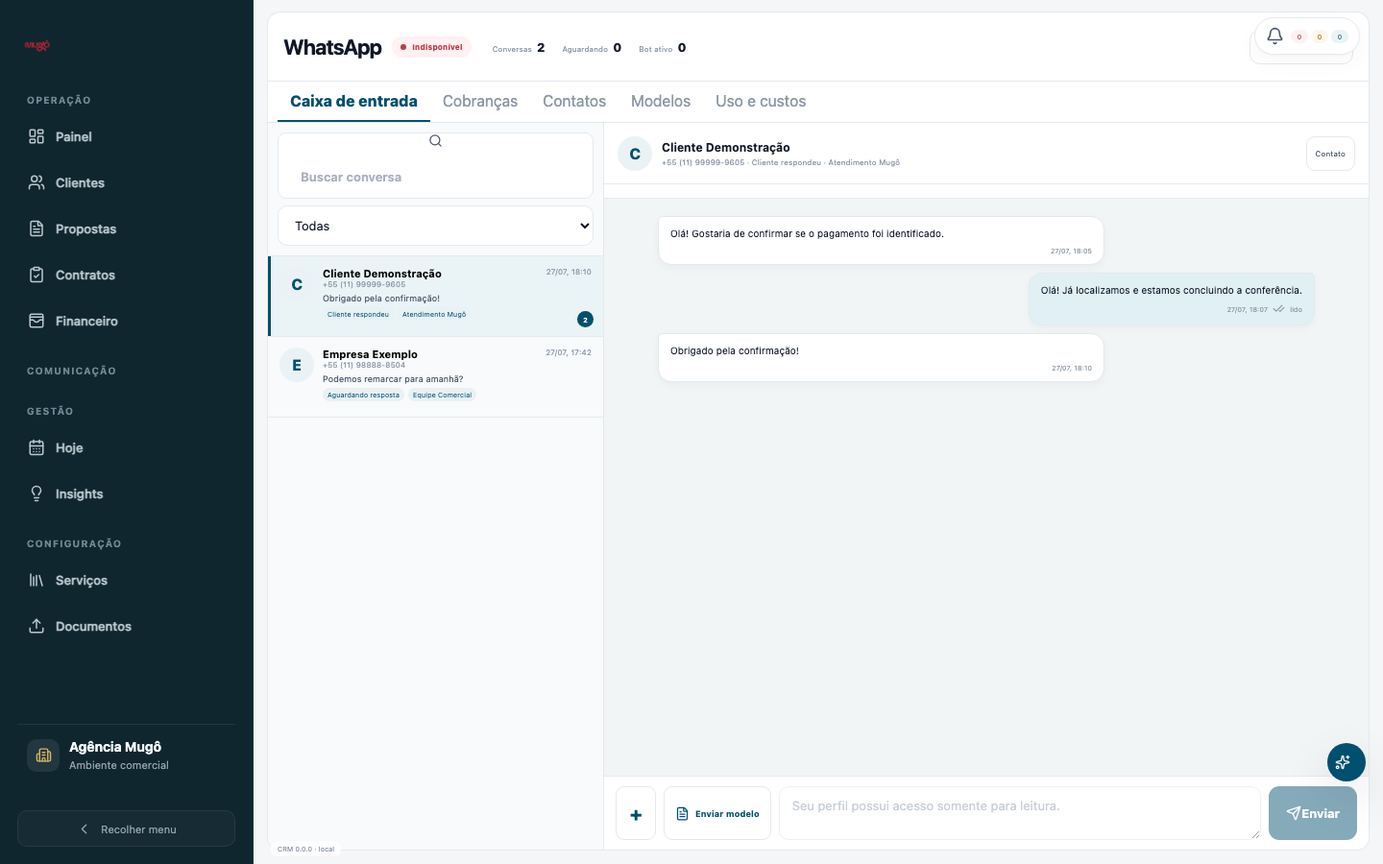
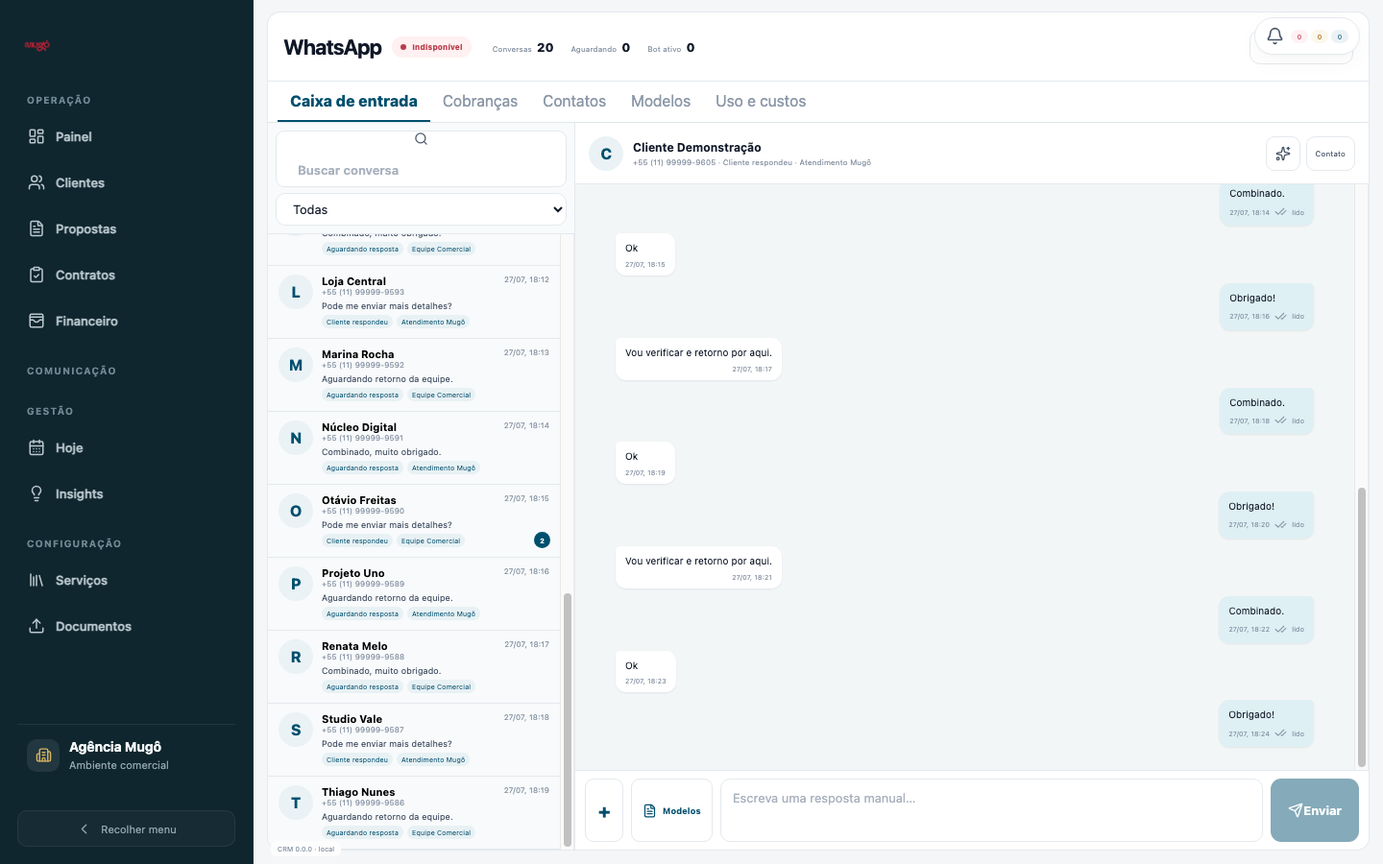
fix: estabiliza layout do inbox WhatsApp

diff --git a/src/components/WhatsAppPage.jsx b/src/components/WhatsAppPage.jsx
@@ -1,5 +1,5 @@
 import { useCallback, useEffect, useMemo, useRef, useState } from 'react'
-import { AlertCircle, CheckCheck, CircleDollarSign, Copy, ExternalLink, FileText, Link2, MessageCircle, MoreHorizontal, RefreshCw, Search, Send, UsersRound } from 'lucide-react'
+import { AlertCircle, CheckCheck, CircleDollarSign, Copy, ExternalLink, FileText, Link2, MessageCircle, MoreHorizontal, RefreshCw, Search, Send, Sparkles, UsersRound } from 'lucide-react'
 import { FeedbackMessage } from './FeedbackMessage'
 import { PageSkeleton } from './PageSkeleton'
 import { normalizeBrazilianPhone } from '../lib/whatsapp'
@@ -39,7 +39,7 @@ const mergeMessages=(current,incoming)=>{
   return [...rows.values()].sort((a,b)=>new Date(a.createdAt||0)-new Date(b.createdAt||0))
 }
 
-export function WhatsAppPage({ clients = [], contracts = [], installments = [], proposals = [], onNavigate = () => {}, canWrite = false, isAdmin = false }) {
+export function WhatsAppPage({ clients = [], contracts = [], installments = [], proposals = [], onNavigate = () => {}, onAskAI = () => {}, canWrite = false, isAdmin = false }) {
   const visualMock=import.meta.env.DEV&&new URLSearchParams(window.location.search).has('whatsapp_mock')
   const visualWindowClosed=visualMock&&new URLSearchParams(window.location.search).get('window')==='closed'
   const visualConversations=useMemo(()=>visualMock?whatsappVisualConversations.map((item,index)=>index===0?{...item,serviceWindowOpen:!visualWindowClosed}:item):[],[visualMock,visualWindowClosed])
@@ -60,10 +60,12 @@ export function WhatsAppPage({ clients = [], contracts = [], installments = [], 
   const optimisticIdRef=useRef(0)
   const historyEndRef=useRef(null)
   const historyContainerRef=useRef(null)
+  const composerTextareaRef=useRef(null)
   const shouldAutoScrollRef=useRef(true)
   const conversationsRef=useRef([])
   const [connection,setConnection]=useState('initializing')
   const templateSendEnabled=import.meta.env.VITE_WHATSAPP_TEMPLATE_SEND_ENABLED==='true'
+  const canCompose=canWrite||visualMock
 
   const refresh = useCallback(async (quiet=false, force=false) => {
     if(visualMock){setConversations(visualConversations);setSummary({conversations_open:visualConversations.length});setLoading(false);return}
@@ -162,12 +164,13 @@ export function WhatsAppPage({ clients = [], contracts = [], installments = [], 
       const result=await sendManualMessage(selected,text,idempotencyKey)
       const providerMessageId=result?.provider_message_id||result?.message_id||result?.messages?.[0]?.id
       setMessages(current=>current.map(item=>item.id===optimistic.id?{...item,id:providerMessageId||item.id,provider_message_id:providerMessageId||'',status:'sent'}:item))
-      setDraft('');setError('');await loadHistory(selected,true)
+      setDraft('');if(composerTextareaRef.current)composerTextareaRef.current.style.height='44px';setError('');await loadHistory(selected,true)
     }catch(cause){
       setMessages(current=>current.map(item=>item.id===optimistic.id?{...item,status:'failed',error_message:cause.message}:item))
       handleOperationError(cause)
     }finally{sendingRef.current=false;setSending(false)}
   }
+  function handleDraftChange(event){setDraft(event.target.value);event.target.style.height='44px';event.target.style.height=`${Math.min(event.target.scrollHeight,120)}px`}
   function handleComposerKeyDown(event){if(event.key==='Enter'&&!event.shiftKey){event.preventDefault();send(event)}}
   const collections=installments.filter(item=>['pending','overdue'].includes(item.status)).sort((a,b)=>String(a.due_date).localeCompare(String(b.due_date)))
   async function openCollection(item){
@@ -240,11 +243,11 @@ export function WhatsAppPage({ clients = [], contracts = [], installments = [], 
         <div className="conversation-tools"><label><Search size={15}/><input value={query} onChange={e=>setQuery(e.target.value)} placeholder="Buscar conversa"/></label><select value={filter} onChange={e=>setFilter(e.target.value)}><option value="all">Todas</option><option value="collection">Cobranças</option><option value="waiting_customer">Aguardando cliente</option><option value="customer_replied">Cliente respondeu</option><option value="waiting_finance">Aguardando financeiro</option><option value="negotiating">Em negociação</option><option value="paid">Pagas</option><option value="failed">Falha de envio</option></select></div>
         <div className="conversation-scroll">{filtered.length?filtered.map(item=>{const valid=hasValidConversationIdentifier(item);return <button key={item.id||item.waId} disabled={!valid} className={`conversation-item status-${item.status}${selectedId===item.waId?' active':''}`} onClick={()=>valid&&setSelectedId(item.waId)}><span className="contact-avatar">{item.name.slice(0,1).toUpperCase()}</span><span className="conversation-copy"><span><strong>{item.name}</strong><time>{fmtTime(item.updatedAt)}</time></span><small>{valid?formatPhoneForDisplay(getConversationIdentifier(item)):'Identificador da conversa ausente'}</small><p>{item.preview||'Sem prévia de mensagem'}</p><span className="conversation-badges"><i>{modeLabel(item)}</i>{item.owner&&<i>{item.owner}</i>}{item.collection&&<i className="collection">Cobrança</i>}</span></span>{item.unread>0&&<b>{item.unread}</b>}</button>}):<div className="whatsapp-empty">Nenhuma conversa encontrada.</div>}</div>
       </aside>
-      <main className="chat-panel">{selected?<><header><div className="chat-contact"><button className="mobile-back" onClick={()=>setSelectedId('')}>Voltar</button><span className="contact-avatar">{selected.name.slice(0,1).toUpperCase()}</span><div><strong>{selected.name}</strong><small>{formatPhoneForDisplay(selectedIdentifier)} · {modeLabel(selected)}{selected.owner?` · ${selected.owner}`:''}</small></div></div><div className="chat-actions"><button className="context-toggle" onClick={()=>setContextOpen(true)}>Contato</button>{canWrite&&<div className="chat-action-menu"><button aria-label="Mais ações" aria-expanded={actionsOpen} onClick={()=>setActionsOpen(current=>!current)}><MoreHorizontal size={17}/></button>{actionsOpen&&<div><button disabled={actionRef.current} onClick={()=>mutate(()=>assignConversation(selected,''),'Conversa assumida.')}>Assumir</button><button disabled={actionRef.current} onClick={()=>mutate(()=>pauseAutomation(selected),'Automação pausada.')}>Pausar bot</button><button disabled={actionRef.current} onClick={()=>mutate(()=>resumeAutomation(selected),'Automação retomada.')}>Retomar bot</button><button disabled={actionRef.current} onClick={()=>mutate(()=>closeConversation(selected),'Conversa encerrada.')}>Encerrar</button><button disabled={actionRef.current} onClick={()=>setLinkModal(true)}><Link2 size={13}/>{client?'Alterar vínculo':'Vincular cliente'}</button>{selectedLink&&<button disabled={actionRef.current} onClick={unlinkClient}>Desvincular</button>}<button onClick={()=>navigator.clipboard.writeText(`+${selectedIdentifier}`)}><Copy size={13}/>Copiar número</button><a className="whatsapp-action-link" href={`https://wa.me/${selectedIdentifier}`} target="_blank" rel="noreferrer"><ExternalLink size={13}/>Abrir WhatsApp</a></div>}</div>}</div></header>
+      <main className="chat-panel">{selected?<><header><div className="chat-contact"><button className="mobile-back" onClick={()=>setSelectedId('')}>Voltar</button><span className="contact-avatar">{selected.name.slice(0,1).toUpperCase()}</span><div><strong>{selected.name}</strong><small>{formatPhoneForDisplay(selectedIdentifier)} · {modeLabel(selected)}{selected.owner?` · ${selected.owner}`:''}</small></div></div><div className="chat-actions"><button onClick={onAskAI} aria-label="Pergunte à Mugô" title="Pergunte à Mugô"><Sparkles size={16}/></button><button className="context-toggle" onClick={()=>setContextOpen(true)}>Contato</button>{canWrite&&<div className="chat-action-menu"><button aria-label="Mais ações" aria-expanded={actionsOpen} onClick={()=>setActionsOpen(current=>!current)}><MoreHorizontal size={17}/></button>{actionsOpen&&<div><button disabled={actionRef.current} onClick={()=>mutate(()=>assignConversation(selected,''),'Conversa assumida.')}>Assumir</button><button disabled={actionRef.current} onClick={()=>mutate(()=>pauseAutomation(selected),'Automação pausada.')}>Pausar bot</button><button disabled={actionRef.current} onClick={()=>mutate(()=>resumeAutomation(selected),'Automação retomada.')}>Retomar bot</button><button disabled={actionRef.current} onClick={()=>mutate(()=>closeConversation(selected),'Conversa encerrada.')}>Encerrar</button><button disabled={actionRef.current} onClick={()=>setLinkModal(true)}><Link2 size={13}/>{client?'Alterar vínculo':'Vincular cliente'}</button>{selectedLink&&<button disabled={actionRef.current} onClick={unlinkClient}>Desvincular</button>}<button onClick={()=>navigator.clipboard.writeText(`+${selectedIdentifier}`)}><Copy size={13}/>Copiar número</button><a className="whatsapp-action-link" href={`https://wa.me/${selectedIdentifier}`} target="_blank" rel="noreferrer"><ExternalLink size={13}/>Abrir WhatsApp</a></div>}</div>}</div></header>
         <div className="chat-management">{isAdmin&&users.length>0&&<><label>Responsável<select value={selected.owner||''} onChange={e=>mutate(()=>assignConversation(selected,e.target.value))}><option value="">Sem responsável</option>{users.map(user=><option key={user.id||user.email} value={user.name||user.email}>{user.name||user.email}</option>)}</select></label>{meta.statuses?.length>0&&<small>Status disponíveis: {meta.statuses.join(', ')}</small>}</>}</div>
         <div className="message-history" ref={historyContainerRef} onScroll={event=>{const element=event.currentTarget;shouldAutoScrollRef.current=element.scrollHeight-element.scrollTop-element.clientHeight<120}}>{messagesLoading&&!messages.length?<div className="whatsapp-empty">Carregando histórico…</div>:messages.length?messages.map(message=><article key={message.provider_message_id||message.idempotencyKey||message.id} className={`${message.direction==='out'?'out':'in'} status-${message.status||'unknown'}`}><p>{message.text||`Mensagem ${message.type||'sem conteúdo textual'}`}</p><footer>{message.template&&<span>Modelo: {message.template_display||message.template_name||'WhatsApp'}</span>}{message.collection&&<span>Cobrança</span>}<time>{fmtTime(message.createdAt)}</time>{message.direction==='out'&&<><CheckCheck size={13} aria-label={message.status||'enviada'}/><em>{message.status==='sending'?'enviando':message.status==='sent'||message.status==='accepted'?'enviado':message.status==='delivered'?'entregue':message.status==='read'?'lido':message.status==='unknown'?'resultado desconhecido':message.status==='failed'?'falhou':message.status}</em></>}</footer>{message.error_message&&<small>{message.error_message}</small>}</article>):<div className="whatsapp-empty whatsapp-chat-empty"><MessageCircle/><strong>Nenhuma mensagem confirmada pela API.</strong><span>O MugoZap respondeu com zero mensagens para esta conversa.</span></div>}<span ref={historyEndRef}/></div>
         {selected.serviceWindowOpen===false&&<FeedbackMessage type="warning">A janela de atendimento está encerrada. Use um modelo aprovado para retomar a conversa.</FeedbackMessage>}
-        <form className={`message-composer${selected.serviceWindowOpen===false?' window-closed':''}`} onSubmit={send}><button type="button" className="composer-attachment" aria-label="Anexar arquivo" title="Anexos ainda não disponíveis">+</button><button type="button" className="composer-template" onClick={()=>setTemplateDrawerOpen(true)} aria-label="Enviar modelo aprovado"><FileText size={15}/><span>Enviar modelo</span></button><textarea value={draft} onChange={e=>setDraft(e.target.value)} onKeyDown={handleComposerKeyDown} placeholder={!canWrite?'Seu perfil possui acesso somente para leitura.':selected.serviceWindowOpen===false?'Use um modelo aprovado para retomar a conversa.':'Escreva uma resposta manual…'} disabled={!canWrite||sending||selected.serviceWindowOpen===false} maxLength={4000} aria-label="Mensagem"/><button className="button button-primary" aria-label="Enviar mensagem" disabled={!canWrite||sending||selected.serviceWindowOpen===false||!draft.trim()}><Send size={16}/><span>{sending?'Enviando…':'Enviar'}</span></button></form></>:<div className="whatsapp-empty">Selecione uma conversa para abrir o atendimento.</div>}</main>
+        <form className={`message-composer${selected.serviceWindowOpen===false?' window-closed':''}`} onSubmit={send}><button type="button" className="composer-attachment" aria-label="Anexar arquivo" title="Anexos ainda não disponíveis">+</button><button type="button" className="composer-template" onClick={()=>setTemplateDrawerOpen(true)} aria-label="Abrir modelos aprovados"><FileText size={15}/><span>Modelos</span></button><textarea ref={composerTextareaRef} rows="1" value={draft} onChange={handleDraftChange} onKeyDown={handleComposerKeyDown} placeholder={!canCompose?'Seu perfil possui acesso somente para leitura.':selected.serviceWindowOpen===false?'Use um modelo aprovado para retomar a conversa.':'Escreva uma resposta manual…'} disabled={!canCompose||sending||selected.serviceWindowOpen===false} maxLength={4000} aria-label="Mensagem"/><button className="button button-primary" aria-label="Enviar mensagem" disabled={!canCompose||sending||selected.serviceWindowOpen===false||!draft.trim()}><Send size={16}/><span>{sending?'Enviando…':'Enviar'}</span></button></form></>:<div className="whatsapp-empty">Selecione uma conversa para abrir o atendimento.</div>}</main>
       {contextOpen&&<button className="client-context-backdrop" onClick={()=>setContextOpen(false)} aria-label="Fechar informações do contato"/>}<aside className={`client-context${contextOpen?' open':''}`}>{selected?<><button className="client-context-close" onClick={()=>setContextOpen(false)}>Fechar</button><header><span>Contexto do cliente</span><strong>{client?.trade_name||client?.company_name||selected.name}</strong><small>{client?'Cliente cadastrado':'Contato não vinculado ao CRM'}</small></header>{client?<><dl><div><dt>Contato</dt><dd>{client.contact_name||'Não informado'}</dd></div><div><dt>Status comercial</dt><dd>{client.status||'Não informado'}</dd></div><div><dt>Contratos</dt><dd>{clientContracts.length}</dd></div><div><dt>Propostas</dt><dd>{clientProposals.length}</dd></div><div><dt>Parcelas pendentes</dt><dd>{openInstallments.length}</dd></div><div><dt>Total em atraso</dt><dd>{money(overdue.reduce((sum,item)=>sum+Number(item.amount||0),0))}</dd></div><div><dt>Próximo vencimento</dt><dd>{openInstallments[0]?.due_date||'Nenhum'}</dd></div></dl>{activeAlert&&activeCollectionInstallment&&<section className="collection-context"><h3>Cobrança vinculada</h3><dl><div><dt>Parcela</dt><dd>{activeCollectionInstallment.reference_month}</dd></div><div><dt>Vencimento</dt><dd>{activeCollectionInstallment.due_date}</dd></div><div><dt>Valor pendente</dt><dd>{money(Math.max(Number(activeCollectionInstallment.amount||0)-Number(activeCollectionInstallment.received_amount||0),0))}</dd></div><div><dt>Status</dt><dd>{activeAlert.status}</dd></div><div><dt>Último alerta</dt><dd>{fmtTime(activeAlert.sent_at)}</dd></div></dl><div className="context-actions"><button onClick={()=>navigator.clipboard.writeText(settings.pix_key||'')} disabled={!settings.pix_key}>Copiar PIX</button><button onClick={suggestCollectionDetails}>Enviar detalhes</button><button onClick={async()=>{await updateCollectionStage(activeAlert.id,'negotiating');await refresh(true)}}>Marcar em negociação</button><button onClick={markPaid}>Marcar como pago</button></div></section>}<div className="context-actions"><button onClick={()=>onNavigate('clients')}>Abrir cliente</button>{clientContracts.length>0&&<button onClick={()=>onNavigate('contracts')}>Abrir contrato</button>}<button onClick={()=>onNavigate('finance')}>Abrir financeiro</button></div></>:<div className="context-empty"><AlertCircle size={18}/><p>O telefone não corresponde a um cliente cadastrado.</p><button onClick={()=>onNavigate('clients')}>Criar cliente</button></div>}</>:null}</aside>
     </div>:tab==='collections'?<div className="whatsapp-table-card"><header><div><CircleDollarSign/><div><strong>Cobranças</strong><small>Base financeira oficial: parcelas do CRM. O primeiro contato utiliza exclusivamente o template aprovado.</small></div></div></header>{collections.length?<div className="whatsapp-table">{collections.map(item=>{const rowClient=clients.find(row=>row.id===item.client_id),phone=rowClient?.billing_contact_phone||rowClient?.phone,known=conversations.some(c=>samePhone(c.phone,phone));return <article key={item.id}><div><strong>{rowClient?.company_name||item.clients?.company_name||'Cliente não informado'}</strong><small>{item.due_date} · {item.status}</small></div><strong>{money(item.amount)}</strong><button onClick={()=>openCollection(item)} disabled={!canWrite} title={!canWrite?'Seu perfil possui acesso somente para leitura.':phone?(known?'Abrir a conversa existente':'Localizar ou iniciar conversa'):'Cadastrar número e continuar'}>{phone?(known?'Abrir conversa':'Iniciar conversa'):'Cadastrar número'}</button><button onClick={()=>openCollection(item)} disabled={!canWrite} title={!canWrite?'Seu perfil não pode enviar alertas.':'Revisar e enviar o template aprovado'}>Enviar alerta</button></article>})}</div>:<div className="whatsapp-empty">Nenhuma parcela pendente encontrada.</div>}</div>:tab==='contacts'?<div className="whatsapp-table-card"><header><div><UsersRound/><div><strong>Contatos</strong><small>Clientes do CRM relacionados às conversas pelo telefone normalizado.</small></div></div></header><div className="whatsapp-table">{clients.map(item=>{const conversation=conversations.find(c=>samePhone(c.phone,item.phone)||samePhone(c.phone,item.billing_contact_phone));return <article key={item.id}><div><strong>{item.trade_name||item.company_name}</strong><small>{item.contact_name||'Sem contato'} · {item.phone||item.billing_contact_phone||'Sem telefone'}</small></div><span>{item.status}</span><button disabled={!conversation} onClick={()=>{setSelectedId(conversation.waId);setTab('inbox')}}>Abrir conversa</button><button onClick={()=>onNavigate('clients')}>Abrir cliente</button></article>})}</div></div>:<div className="template-card"><header><strong>mugo_alerta_pagamento_pendente</strong><span>Utilidade · pt_BR</span></header><p>Finalidade: iniciar alerta financeiro. Interação esperada: Consultar cobrança.</p><dl><div><dt>Uso</dt><dd>Alertas financeiros revisados pela equipe</dd></div><div><dt>Variáveis</dt><dd>Primeiro nome seguro do cliente</dd></div><div><dt>Ação</dt><dd>Consultar cobrança</dd></div></dl><FeedbackMessage type="warning">A aprovação e o status oficial do template continuam sendo gerenciados na Meta.</FeedbackMessage></div>}
     {tab==='collections'&&<button className="button secondary whatsapp-batch-trigger" onClick={()=>setBatchOpen(true)}>Envio em lote</button>}

diff --git a/src/components/WhatsAppPage.css b/src/components/WhatsAppPage.css
@@ -28,3 +28,50 @@
 @media(max-width:720px){.whatsapp-page .message-composer{grid-template-columns:auto auto minmax(0,1fr) auto}.message-composer button{min-width:42px;padding-inline:8px}.message-composer .composer-template span,.message-composer .button-primary span{display:none}.whatsapp-assistant-trigger{bottom:calc(86px + env(safe-area-inset-bottom))}.conversation-template-drawer{top:auto;bottom:0;width:100%;height:min(88dvh,760px);padding:14px 12px calc(14px + env(safe-area-inset-bottom));border-radius:18px 18px 0 0}}
 .template-confirm-check input{flex:0 0 16px;width:16px;min-height:16px}
 @media(max-width:720px){.whatsapp-assistant-trigger{bottom:calc(160px + env(safe-area-inset-bottom))}}
+
+/* Contrato de altura do inbox: nenhum ancestral externo pode crescer com o conteúdo. */
+.whatsapp-shell .whatsapp-page{height:100%;min-height:0;display:flex;flex-direction:column;overflow:hidden}
+.whatsapp-shell .whatsapp-compact-header,.whatsapp-shell .whatsapp-tabs{flex:0 0 auto}
+.whatsapp-shell .whatsapp-workspace{flex:1 1 auto;height:auto;min-height:0;grid-template-columns:320px minmax(0,1fr);overflow:hidden}
+.whatsapp-shell .whatsapp-workspace.has-context{grid-template-columns:320px minmax(0,1fr) 300px}
+.whatsapp-shell .conversation-list,.whatsapp-shell .chat-panel,.whatsapp-shell .client-context{min-width:0;min-height:0;overflow:hidden}
+.whatsapp-shell .conversation-list{display:flex;flex-direction:column}
+.whatsapp-shell .conversation-tools{position:relative;flex:0 0 auto;gap:6px;padding:8px}
+.whatsapp-shell .conversation-tools label{min-height:36px;padding-inline:9px}
+.whatsapp-shell .conversation-tools input{min-height:34px;padding-block:7px}
+.whatsapp-shell .conversation-tools select{min-height:34px;padding-block:6px}
+.whatsapp-shell .conversation-scroll{flex:1 1 auto;min-height:0;overflow-x:hidden;overflow-y:auto;overscroll-behavior:contain;scrollbar-gutter:stable}
+.whatsapp-shell .conversation-item{min-height:76px;padding:9px 11px}
+.whatsapp-shell .chat-panel{display:flex;flex-direction:column;background:#f3f6f7}
+.whatsapp-shell .chat-panel>header{flex:0 0 auto;min-height:64px}
+.whatsapp-shell .chat-management{flex:0 0 auto}
+.whatsapp-shell .chat-management:empty{display:none}
+.whatsapp-shell .message-history{flex:1 1 auto;min-height:0;overflow-x:hidden;overflow-y:auto;overscroll-behavior:contain;scrollbar-gutter:stable;padding:16px clamp(18px,3vw,42px)}
+.whatsapp-shell .message-history article{width:fit-content;min-width:0;max-width:min(68%,680px);padding:8px 10px;border:0;border-radius:5px 11px 11px;background:#fff;box-shadow:0 1px 2px rgba(7,32,43,.08)}
+.whatsapp-shell .message-history article.out{width:fit-content;align-self:flex-end;border:0;border-radius:11px 5px 11px 11px;background:#dff0f4}
+.whatsapp-shell .message-history article.status-failed{box-shadow:inset 3px 0 #d7808c,0 1px 2px rgba(7,32,43,.08)}
+.whatsapp-shell .message-history article.status-unknown{box-shadow:inset 3px 0 #d3a936,0 1px 2px rgba(7,32,43,.08)}
+.whatsapp-shell .message-history p{font-size:10px;line-height:1.48}
+.whatsapp-shell .chat-panel>.feedback-message{position:relative;flex:0 0 auto;margin:0;border-radius:0;padding-block:8px}
+.whatsapp-shell .message-composer{position:relative;flex:0 0 auto;grid-template-columns:40px auto minmax(0,1fr) auto;align-items:center;padding:8px 10px calc(8px + env(safe-area-inset-bottom));overflow:hidden}
+.whatsapp-shell .message-composer textarea{height:44px;min-height:44px;max-height:120px;padding:10px 12px;overflow-y:auto;resize:none;line-height:1.45}
+.whatsapp-shell .message-composer .composer-attachment{width:40px;min-width:40px}
+.whatsapp-shell .message-composer .composer-template{min-height:44px;white-space:nowrap}
+.whatsapp-shell .message-composer>.button-primary{min-height:44px;white-space:nowrap}
+.whatsapp-shell .client-context{overflow-y:auto;overscroll-behavior:contain}
+.whatsapp-shell .whatsapp-assistant-trigger{display:none}
+
+@media(max-width:1280px){
+  .whatsapp-shell .whatsapp-workspace,.whatsapp-shell .whatsapp-workspace.has-context{grid-template-columns:280px minmax(0,1fr)}
+}
+@media(max-width:720px){
+  .whatsapp-shell .main-content.whatsapp-main>.mobile-topbar{flex:0 0 54px}
+  .whatsapp-shell .whatsapp-page{height:100%}
+  .whatsapp-shell .whatsapp-workspace,.whatsapp-shell .whatsapp-workspace.has-context{grid-template-columns:1fr}
+  .whatsapp-shell .chat-panel>header{align-items:center;flex-direction:row}
+  .whatsapp-shell .message-history{padding:12px 13px}
+  .whatsapp-shell .message-history article,.whatsapp-shell .message-history article.out{max-width:86%}
+  .whatsapp-shell .message-composer{grid-template-columns:40px 42px minmax(0,1fr) 44px;gap:6px}
+  .whatsapp-shell .message-composer .composer-template{width:42px;min-width:42px;padding:0}
+  .whatsapp-shell .message-composer>.button-primary{width:44px;min-width:44px;padding:0}
+}

diff --git a/src/services/whatsapp/visualFixtures.js b/src/services/whatsapp/visualFixtures.js
@@ -10,13 +10,30 @@ export const whatsappVisualTemplates=[{
   components:[{type:'BODY',text:'Olá, {{1}}. Confirmamos o recebimento do seu pagamento referente aos serviços da Mugô. Agradecemos pela confiança e parceria.'}],
 }]
 
-export const whatsappVisualConversations=[
-  {id:'visual-conversation-1',waId:'5511999999605',phone:'5511999999605',name:'Cliente Demonstração',preview:'Obrigado pela confirmação!',updatedAt:'2026-07-27T18:10:00-03:00',unread:2,status:'customer_replied',owner:'Atendimento Mugô',attendanceMode:'human',botEnabled:false,serviceWindowOpen:true},
-  {id:'visual-conversation-2',waId:'5511988888504',phone:'5511988888504',name:'Empresa Exemplo',preview:'Podemos remarcar para amanhã?',updatedAt:'2026-07-27T17:42:00-03:00',unread:0,status:'waiting_customer',owner:'Equipe Comercial',attendanceMode:'human',botEnabled:false,serviceWindowOpen:false},
-]
+const visualNames=['Cliente Demonstração','Empresa Exemplo','Ana Martins','Bruno Costa','Clínica Horizonte','Daniel Souza','Estúdio Aurora','Fernanda Lima','Grupo Norte','Helena Alves','Instituto Soma','João Ribeiro','Loja Central','Marina Rocha','Núcleo Digital','Otávio Freitas','Projeto Uno','Renata Melo','Studio Vale','Thiago Nunes']
+export const whatsappVisualConversations=visualNames.map((name,index)=>({
+  id:`visual-conversation-${index+1}`,
+  waId:`55119${String(99999605-index).padStart(8,'0')}`,
+  phone:`55119${String(99999605-index).padStart(8,'0')}`,
+  name,
+  preview:index===0?'Obrigado pela confirmação!':index%3===0?'Pode me enviar mais detalhes?':index%3===1?'Aguardando retorno da equipe.':'Combinado, muito obrigado.',
+  updatedAt:new Date(Date.UTC(2026,6,27,21,index)).toISOString(),
+  unread:index%5===0?2:0,
+  status:index%3===0?'customer_replied':'waiting_customer',
+  owner:index%2===0?'Atendimento Mugô':'Equipe Comercial',
+  attendanceMode:'human',
+  botEnabled:false,
+  serviceWindowOpen:index!==1,
+}))
 
 export const whatsappVisualMessages=[
   {id:'visual-message-1',text:'Olá! Gostaria de confirmar se o pagamento foi identificado.',createdAt:'2026-07-27T18:05:00-03:00',direction:'in',status:'read'},
+  {id:'visual-message-1b',text:'Oi',createdAt:'2026-07-27T18:05:20-03:00',direction:'in',status:'read'},
   {id:'visual-message-2',text:'Olá! Já localizamos e estamos concluindo a conferência.',createdAt:'2026-07-27T18:07:00-03:00',direction:'out',status:'read'},
+  {id:'visual-message-2b',text:'Perfeito.',createdAt:'2026-07-27T18:07:30-03:00',direction:'in',status:'read'},
+  {id:'visual-message-template',text:'Olá, Cliente Demonstração. Confirmamos o recebimento do seu pagamento referente aos serviços da Mugô. Agradecemos pela confiança e parceria. Se precisar de qualquer informação, nossa equipe está à disposição.',template:true,template_name:'mugo_pagamento_confirmado',template_display:'Pagamento confirmado',createdAt:'2026-07-27T18:08:00-03:00',direction:'out',status:'delivered'},
+  {id:'visual-message-2c',text:'Certo',createdAt:'2026-07-27T18:08:30-03:00',direction:'in',status:'read'},
+  {id:'visual-message-2d',text:'Fico à disposição.',createdAt:'2026-07-27T18:09:00-03:00',direction:'out',status:'read'},
   {id:'visual-message-3',text:'Obrigado pela confirmação!',createdAt:'2026-07-27T18:10:00-03:00',direction:'in',status:'delivered'},
+  ...Array.from({length:14},(_,index)=>({id:`visual-message-extra-${index}`,text:index%4===0?'Ok':index%4===1?'Obrigado!':index%4===2?'Vou verificar e retorno por aqui.':'Combinado.',createdAt:new Date(Date.UTC(2026,6,27,21,11+index)).toISOString(),direction:index%2===0?'in':'out',status:'read'})),
 ]

diff --git a/src/App.jsx b/src/App.jsx
@@ -347,7 +347,7 @@ export default function App() {
   async function refreshPulse(){try{setPulseAlerts(await listPulseAlerts({status:'all'}))}catch{return}}
 
   return (
-    <div className={`app-shell${sidebarCollapsed ? ' sidebar-collapsed' : ''}`}>
+    <div className={`app-shell${sidebarCollapsed ? ' sidebar-collapsed' : ''}${activePage==='whatsapp'?' whatsapp-shell':''}`}>
       <Sidebar
         activePage={activePage}
         onNavigate={handleNavigate}
@@ -406,7 +406,7 @@ export default function App() {
         {activePage === 'clients' && <ClientsPage />}
         {activePage === 'team' && <TeamPage />}
         {activePage === 'finance' && <FinancePage />}
-        {activePage === 'whatsapp' && <WhatsAppPage clients={clients} contracts={intelligenceData.contracts} installments={installments} proposals={proposals} onNavigate={handleNavigate} canWrite={canWrite} isAdmin={isAdmin} />}
+        {activePage === 'whatsapp' && <WhatsAppPage clients={clients} contracts={intelligenceData.contracts} installments={installments} proposals={proposals} onNavigate={handleNavigate} onAskAI={()=>setAssistantOpen(true)} canWrite={canWrite} isAdmin={isAdmin} />}
         {activePage === 'financial-reconciliation' && <FinancialReconciliationPage />}
         {activePage === 'documents' && <ImportDocumentPage onImported={handleDocumentImported} />}
         {activePage === 'diagnostic' && <SupabaseDiagnosticPage />}
@@ -424,7 +424,7 @@ export default function App() {
         {activePage.startsWith('intelligence-') && !['intelligence-attention','intelligence-today'].includes(activePage) && <MugoIntelligencePage data={intelligenceData} loading={loading} error={errorMessage || intelligenceError} section={activePage.replace('intelligence-','')} onAskAI={()=>setAssistantOpen(true)} />}
         </>}
         </div>
-        <button type="button" className={`assistant-trigger${activePage==='whatsapp'?' whatsapp-assistant-trigger':''}`} onClick={() => setAssistantOpen(true)}><Sparkles size={16}/>Pergunte à Mugô</button>
+        {activePage!=='whatsapp'&&<button type="button" className="assistant-trigger" onClick={() => setAssistantOpen(true)}><Sparkles size={16}/>Pergunte à Mugô</button>}
         <MugoAssistantPanel open={assistantOpen} onClose={() => setAssistantOpen(false)} data={intelligenceData} activePage={activePage} />
         <VersionBadge />
       </main>

diff --git a/src/App.css b/src/App.css
@@ -48,6 +48,11 @@ button:focus-visible, a:focus-visible, input:focus-visible, select:focus-visible
 .content-container { width: min(100%, 1500px); max-width: 100%; min-width: 0; margin: 0 auto; }
 .mobile-topbar { display: none; }
 
+body:has(.whatsapp-shell) { height: 100dvh; overflow: hidden; }
+.app-shell.whatsapp-shell { height: 100dvh; min-height: 0; overflow: hidden; }
+.whatsapp-shell .main-content.whatsapp-main { height: 100dvh; min-height: 0; display: flex; flex-direction: column; overflow: hidden; }
+.whatsapp-shell .main-content.whatsapp-main > .content-container { flex: 1 1 auto; height: auto; min-height: 0; overflow: hidden; }
+
 .sidebar { position: sticky; top: 0; z-index: 30; height: 100vh; overflow: hidden; display: flex; flex-direction: column; gap: 26px; padding: 24px 18px 18px; color: #f7fafb; background: var(--sidebar); border-right: 1px solid rgba(255,255,255,.06); transition: width var(--transition), transform var(--transition); }
 .brand-panel { display: flex; align-items: center; gap: 12px; min-height: 48px; padding: 0 6px; }
 .brand-copy { min-width: 0; white-space: nowrap; transition: opacity var(--transition); }

diff --git a/src/index.css b/src/index.css
@@ -1,3 +1,3 @@
-html, body, #root { min-height: 100%; }
+html, body, #root { height: 100%; min-height: 100%; }
 body { margin: 0; }
 a { color: inherit; text-decoration: none; }
